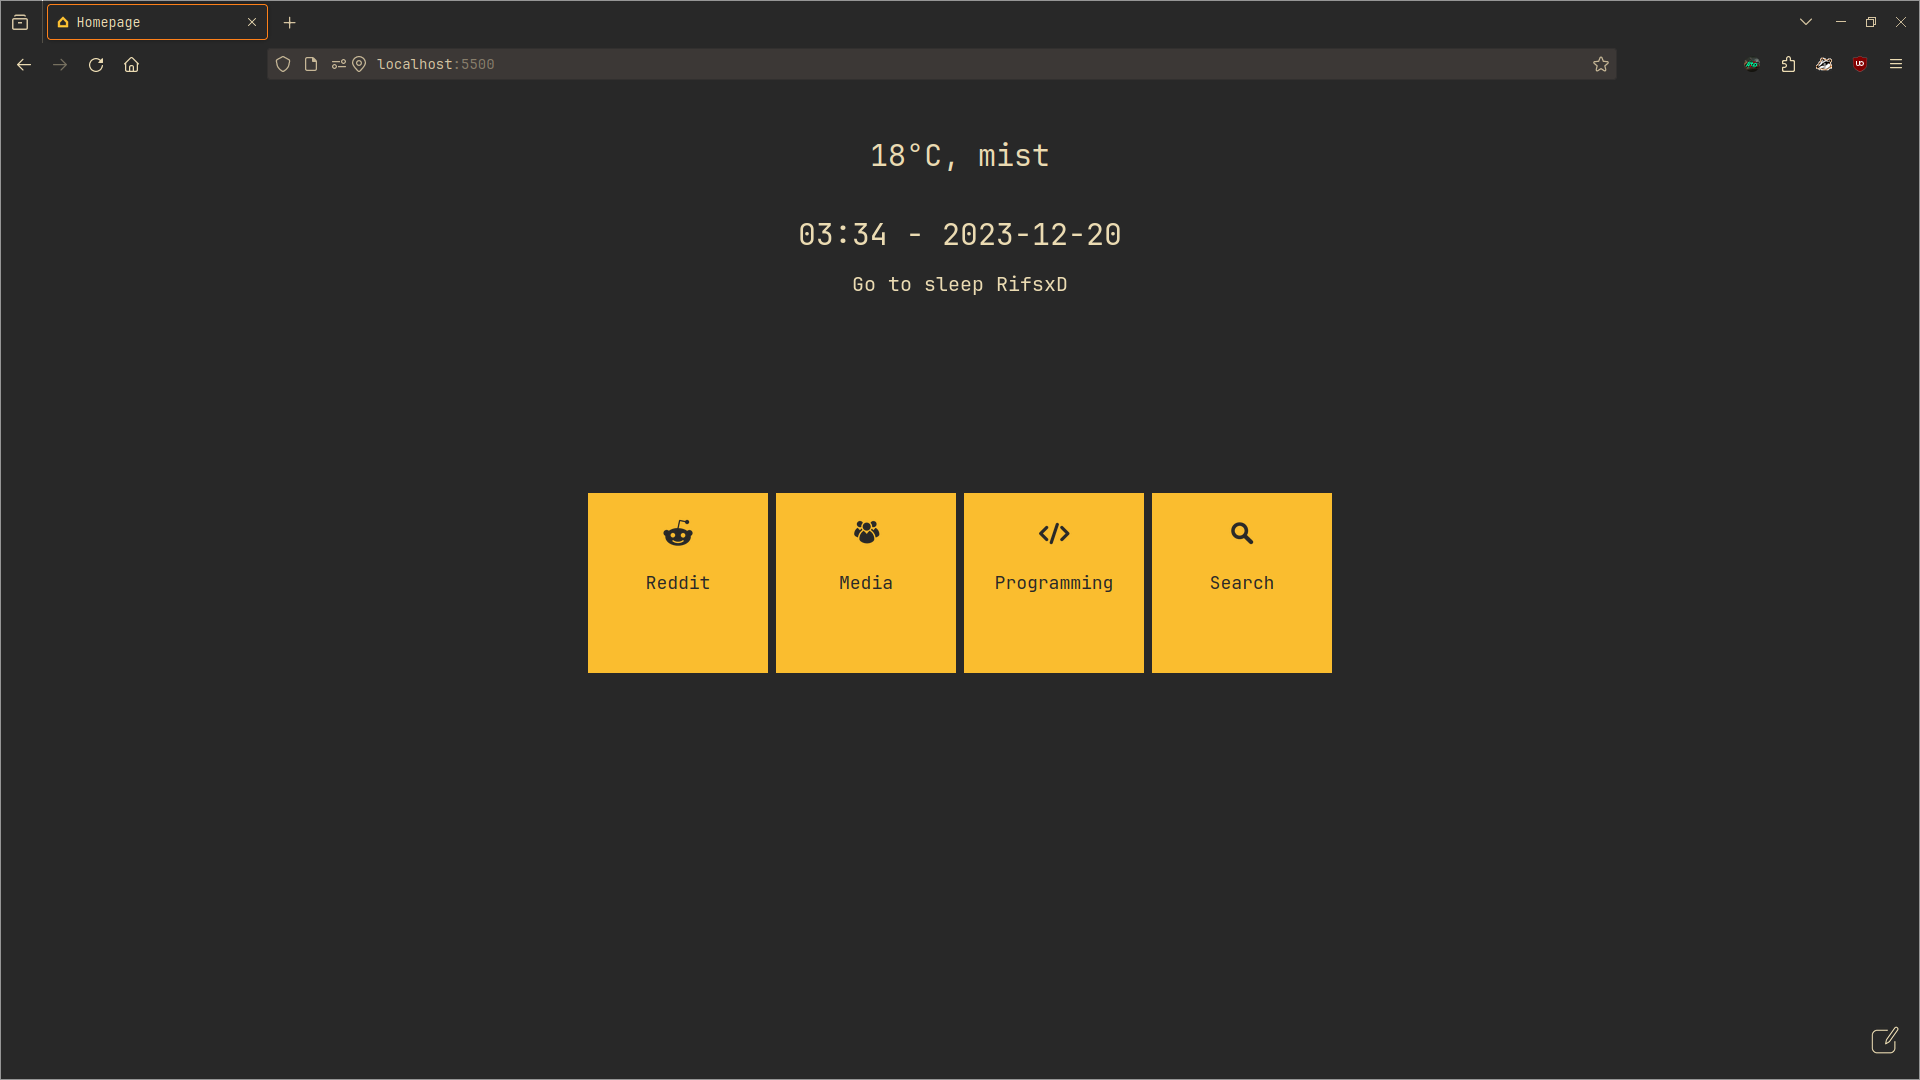
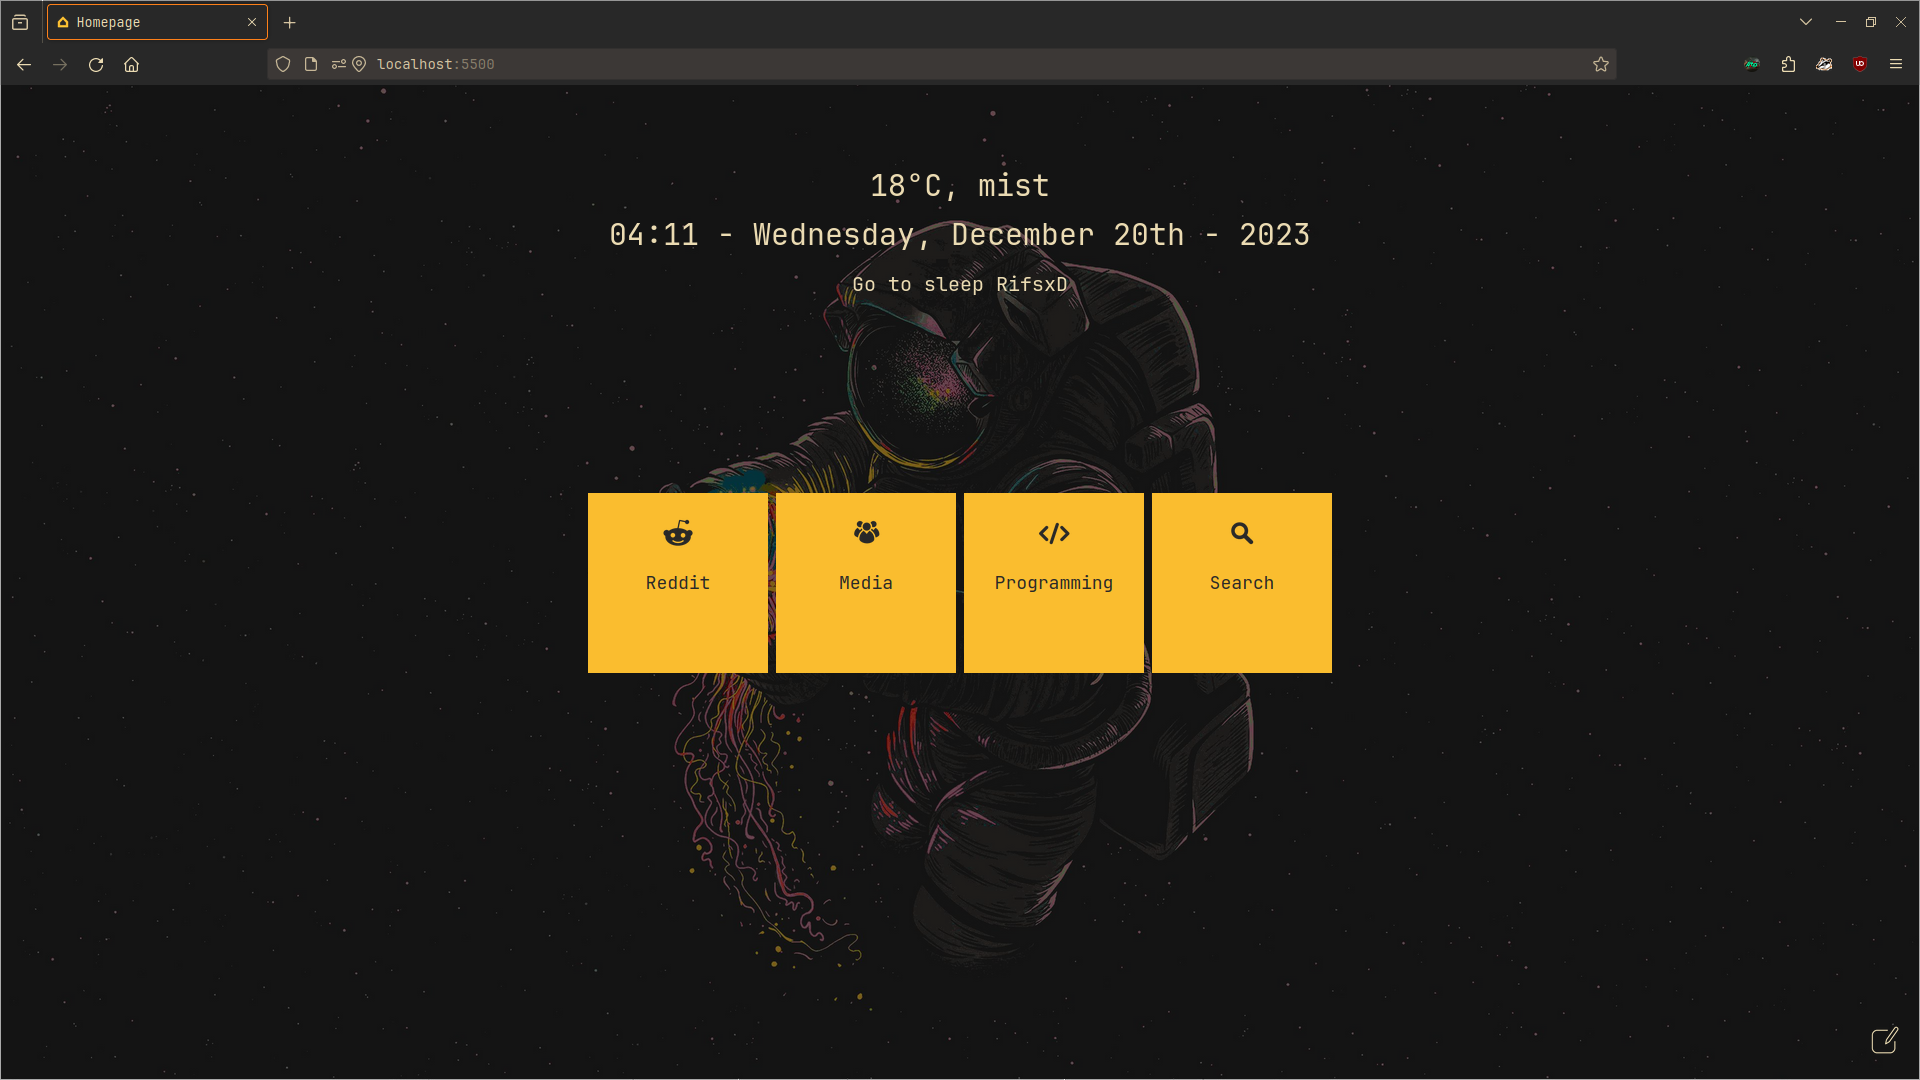
new QoL improvements alongside with a new background image

diff --git a/js/timedate.js b/js/timedate.js
@@ -1,0 +1,58 @@
+// Function to update the displayed time and date
+function updateTime() {
+    var currentDateTimeElement = document.getElementById("currentDateTime");
+    var currentTime = new Date();
+    var hours = currentTime.getHours();
+    var minutes = currentTime.getMinutes();
+    var day = currentTime.getDate();
+    var monthIndex = currentTime.getMonth(); // Month is zero-based
+    var year = currentTime.getFullYear();
+
+    // Array of weekday names and month names
+    var weekdays = ["Sunday", "Monday", "Tuesday", "Wednesday", "Thursday", "Friday", "Saturday"];
+    var months = ["January", "February", "March", "April", "May", "June", "July", "August", "September", "October", "November", "December"];
+
+    // Format hours and minutes with leading zero if less than 10
+    hours = hours < 10 ? "0" + hours : hours;
+    minutes = minutes < 10 ? "0" + minutes : minutes;
+
+    // Function to add suffix to day number
+    function addSuffix(number) {
+        if (number >= 11 && number <= 13) {
+            return number + "th";
+        } else {
+            switch (number % 10) {
+                case 1:
+                    return number + "st";
+                case 2:
+                    return number + "nd";
+                case 3:
+                    return number + "rd";
+                default:
+                    return number + "th";
+            }
+        }
+    }
+
+    var formattedDay = addSuffix(day);
+    var weekday = weekdays[currentTime.getDay()];
+    var month = months[monthIndex];
+
+    var dateTimeString = hours + ":" + minutes + " - " + weekday + ", " + month + " " + formattedDay + " - " + year;
+    currentDateTimeElement.textContent = dateTimeString;
+}
+
+
+// Display greeting, update search engine text, and show the current time on page load
+document.addEventListener("DOMContentLoaded", function () {
+    var greeting = getGreeting();
+    var greetingMessage = document.getElementById("greetingMessage");
+    var hostUsername = getHostUsername();
+    greetingMessage.textContent = greeting + " " + hostUsername;
+
+    updateTime(); // Call updateTime function immediately after page load
+    updateSelectedSearchEngineText();
+});
+
+// Call updateTime function every second to keep the time updated
+setInterval(updateTime, 1000);

diff --git a/js/greetings.js b/js/greetings.js
@@ -18,37 +18,3 @@ function getGreeting() {
         return "Go to sleep";
     }
 }
-
-// Function to update the displayed time and date
-function updateTime() {
-    var currentDateTimeElement = document.getElementById("currentDateTime");
-    var currentTime = new Date();
-    var hours = currentTime.getHours();
-    var minutes = currentTime.getMinutes();
-    var day = currentTime.getDate();
-    var month = currentTime.getMonth() + 1; // Month is zero-based
-    var year = currentTime.getFullYear();
-
-    // Format hours, minutes, day, and month with leading zero if less than 10
-    hours = hours < 10 ? "0" + hours : hours;
-    minutes = minutes < 10 ? "0" + minutes : minutes;
-    day = day < 10 ? "0" + day : day;
-    month = month < 10 ? "0" + month : month;
-
-    var dateTimeString = hours + ":" + minutes + " - " + year + "-" + month + "-" + day;
-    currentDateTimeElement.textContent = dateTimeString;
-}
-
-// Display greeting, update search engine text, and show the current time on page load
-document.addEventListener("DOMContentLoaded", function () {
-    var greeting = getGreeting();
-    var greetingMessage = document.getElementById("greetingMessage");
-    var hostUsername = getHostUsername();
-    greetingMessage.textContent = greeting + " " + hostUsername;
-
-    updateTime(); // Call updateTime function immediately after page load
-    updateSelectedSearchEngineText();
-});
-
-// Call updateTime function every second to keep the time updated
-setInterval(updateTime, 1000);

diff --git a/css/style.css b/css/style.css
@@ -16,12 +16,17 @@
   font-style: normal;
 }
 
-/* Body */
-body {
-  overflow: hidden;
+html, body {
+  height: 100%;
   margin: 0;
-  padding: 0;
-  background-color: #282828;
+  overflow: hidden;
+}
+
+body {
+  background-image: url('../img/wall.png');
+  background-size: cover;
+  background-position: center;
+  background-repeat: no-repeat;
   font-family: 'JetBrainsMono Nerd Font';
 }
 
@@ -40,6 +45,7 @@ body {
   align-items: center;
   justify-content: center;
   text-align: center;
+  background-color: rgba(0, 0, 0, 0.5);
 }
 
 /* Square */
@@ -228,7 +234,10 @@ body {
 #currentWeather {
   text-align: center;
   color: #EBDBB2;
-  margin-top: 50px;
+  position: fixed;
+  top: 10%;
+  left: 50%;
+  transform: translate(-50%, -50%);
   font-size: 30px;
   font-family: 'JetBrainsMono Nerd Font';
   z-index: 1; /* Adjust the margin as needed */

diff --git a/index.html b/index.html
@@ -67,7 +67,7 @@
     </main>
 
     <div id="editIcon" onclick="toggleEditMenu()">
-        <img src="assets/edit.png" alt="Edit Icon">
+        <img src="icons/edit.png" alt="Edit Icon">
     </div>
 
     <div id="editMenu">
@@ -83,6 +83,7 @@
     <script src="js/greetings.js" defer></script>
     <script src="js/editmenu.js" defer></script>
     <script src="js/searchengine.js" defer></script>
+    <script src="js/timedate.js" defer></script>
     <script defer src="js/weather.js" defer></script>
 </body>
 
